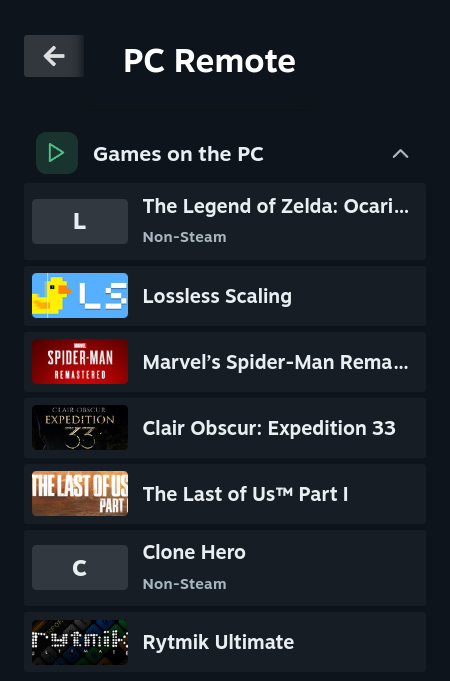
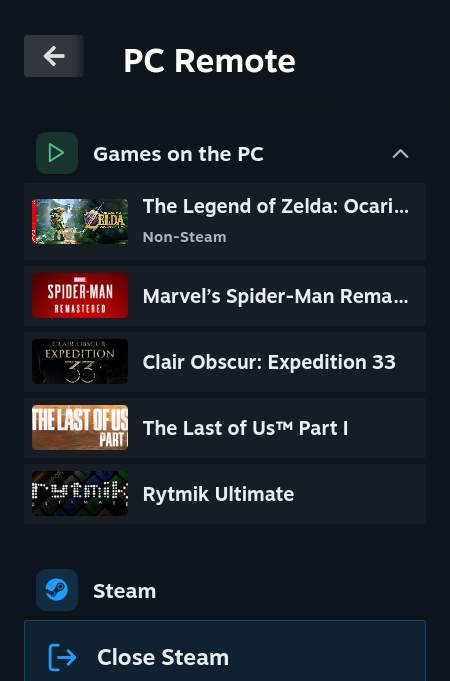
Hide games per PC from Edit, and use the Deck's own artwork for game rows
- Edit shows the selected PC's games with a switch each; hidden app ids are saved with the PC
- Games on the PC filters them out and its summary counts shown and hidden games
- Rows try the Deck's custom image (steamloopback.host/customimages), then the store capsule, then a letter

Changed region(s): [[0.0622, 0.4009, 0.9022, 0.7709], [0.0622, 0.8018, 0.6533, 0.9868], [0.0622, 0.2775, 0.3111, 0.37]]

diff --git a/src/index.tsx b/src/index.tsx
@@ -13,6 +13,7 @@ import {
   Navigation,
   SliderField,
   TextField,
+  ToggleField,
   showModal,
   staticClasses,
 } from "@decky/ui";
@@ -23,7 +24,7 @@ import { FaSteam } from "react-icons/fa";
 import { FiEdit2, FiEyeOff, FiKey, FiLogOut, FiMonitor, FiMoon, FiPlay, FiPlus, FiPower, FiRotateCw, FiSettings, FiTrash2, FiVolume2, FiVolumeX, FiWifi } from "react-icons/fi";
 import { CardState, CollapsibleSection, GameRow, Notice, PanelStyles, Section, StatusCard, TileRow, WideTile } from "./ui";
 
-type Pc = { name: string; host: string; port: number; token: string };
+type Pc = { name: string; host: string; port: number; token: string; hidden?: number[] }; // hidden: app ids left off the panel
 type Config = { pcs: Pc[]; selected: number };
 type Status = { host?: string; steam?: boolean; volume?: number; muted?: boolean; error?: string; moved_to?: string };
 
@@ -47,7 +48,8 @@ const discover = callable<[], { name: string; host: string; port: number }[]>("d
 
 // The PC form opens as a modal in the main window (like MAKO's text inputs): the on-screen
 // keyboard does not type into text fields inside the Quick Access Menu.
-function PcEditModal({ initial, onSave, closeModal }: { initial: Pc; onSave: (pc: Pc) => void; closeModal?: () => void }) {
+function PcEditModal({ initial, games, onSave, closeModal }: { initial: Pc; games?: Game[]; onSave: (pc: Pc) => void; closeModal?: () => void }) {
+  const [hidden, setHidden] = useState<number[]>(initial.hidden ?? []);
   const [name, setName] = useState(initial.name);
   const [host, setHost] = useState(initial.host);
   const [port, setPort] = useState(String(initial.port || 47990));
@@ -79,13 +81,23 @@ function PcEditModal({ initial, onSave, closeModal }: { initial: Pc; onSave: (pc
           <TextField value={token} onChange={(e) => setToken(e?.target?.value ?? "")} style={{ width: "100%" }} />
         </Field>
         {found && <Field label={found} />}
+        {games && games.length > 0 && (
+          <>
+            <Field label="Shown on the panel" description="Turn off the games and apps you don't want in Games on the PC." />
+            {games.map((g) => (
+              <ToggleField key={g.appid} label={g.name} description={g.nonSteam ? "Non-Steam" : undefined}
+                checked={!hidden.includes(g.appid)}
+                onChange={(on) => setHidden((h) => on ? h.filter((id) => id !== g.appid) : [...h, g.appid])} />
+            ))}
+          </>
+        )}
       </DialogBody>
       <DialogFooter>
         <Focusable style={{ display: "flex", gap: "8px" }} flow-children="row">
           <DialogButton onClick={search}>Search the network</DialogButton>
           <DialogButton onClick={closeModal}>Cancel</DialogButton>
           <DialogButton disabled={!valid} onClick={() => {
-            onSave({ name: name.trim() || host.trim(), host: host.trim(), port: Number(port) || 47990, token: token.trim() });
+            onSave({ name: name.trim() || host.trim(), host: host.trim(), port: Number(port) || 47990, token: token.trim(), hidden });
             closeModal?.();
           }}>Save</DialogButton>
         </Focusable>
@@ -134,9 +146,15 @@ function Content() {
     volTimer.current = window.setTimeout(async () => apply(await setVolume(v)), 200);
   };
 
-  const edit = (index: number) => {
+  const edit = async (index: number) => {
+    // The games list only exists for the PC being shown, so only its form offers to hide games.
+    let list: Game[] | undefined;
+    if (index === config.selected && index >= 0) {
+      const g = games && !games.error ? games : await getGames();
+      if (!g.error) { setGames(g); list = g.games; }
+    }
     Navigation.CloseSideMenus();
-    showModal(<PcEditModal initial={index < 0 ? EMPTY : config.pcs[index]}
+    showModal(<PcEditModal initial={index < 0 ? EMPTY : config.pcs[index]} games={list}
       onSave={async (pc) => { setConfig(await savePc(index, pc)); setStatus({}); refresh(); }} />);
   };
 
@@ -155,6 +173,9 @@ function Content() {
     );
   }
 
+  const hiddenIds = pc.hidden ?? [];
+  const shown = games && !games.error ? games.games.filter((g) => !hiddenIds.includes(g.appid)) : [];
+  const hiddenCount = games && !games.error ? games.games.length - shown.length : 0;
   const volumeText = online ? (status.muted ? "Muted" : `${status.volume}%`) : "—";
   return (
     <>
@@ -183,18 +204,20 @@ function Content() {
       </PanelSection>
 
       <CollapsibleSection id="games" title="Games on the PC" icon={FiPlay} t="ok" initiallyCollapsed onExpand={loadGames}
-        summary={games && !games.error ? `${games.games.length} installed` : undefined}>
+        summary={games && !games.error ? `${shown.length} shown${hiddenCount ? `, ${hiddenCount} hidden` : ""}` : undefined}>
         {!games && <Notice kind="info">Loading the PC's library…</Notice>}
         {games?.error && <Notice kind="error">{games.error}</Notice>}
-        {games && !games.error && games.games.length === 0 && <Notice kind="info">No installed Steam games found on this PC.</Notice>}
+        {games && !games.error && shown.length === 0 && (
+          <Notice kind="info">{hiddenCount ? "Every game is hidden: show some again in PCs → Edit." : "No installed games found on this PC."}</Notice>
+        )}
         {games && !games.error && games.games.length > 0 && online && !status.steam && (
           <>
             <Notice kind="info">Steam is closed on the PC: open it to stream these games.</Notice>
             <WideTile icon={FaSteam} label="Open Steam" t="steam" onClick={() => run("/steam/open", "Opening Steam")} />
           </>
         )}
-        {games?.games.map((g) => (
-          <GameRow key={g.appid} appid={g.appid} name={g.name} nonSteam={g.nonSteam} playing={g.appid === games.running}
+        {shown.map((g) => (
+          <GameRow key={g.appid} appid={g.appid} name={g.name} nonSteam={g.nonSteam} playing={g.appid === games!.running}
             onClick={() => g.nonSteam && !status.steam
               // The Deck only knows the PC's non-Steam games while Steam runs there.
               ? toaster.toast({ title: "PC Remote", body: "Open Steam on the PC first: non-Steam games show up on the Deck only while it runs." })

diff --git a/src/ui.tsx b/src/ui.tsx
@@ -189,13 +189,19 @@ export function CollapsibleSection({ id, title, icon, t, summary, initiallyColla
 
 /** One installed game: its library capsule, its name, and a "Playing" badge while it runs. */
 export function GameRow({ appid, name, playing, nonSteam, onClick }: { appid: number; name: string; playing: boolean; nonSteam?: boolean; onClick: () => void }) {
-  // Non-Steam shortcuts have no store capsule: a lettered tile stands in.
-  const [img, setImg] = useState(!nonSteam);
+  // Artwork in order: the banner set on this Deck (Steam serves it as a custom image), the store
+  // capsule (Steam games only), then a lettered tile.
+  const sources = [
+    `https://steamloopback.host/customimages/${appid}.png`,
+    ...(nonSteam ? [] : [`https://cdn.cloudflare.steamstatic.com/steam/apps/${appid}/capsule_184x69.jpg`]),
+  ];
+  const [src, setSrc] = useState(0);
+  const img = src < sources.length;
   return (
     <PanelSectionRow>
       <DialogButton className="pcr-game" onClick={onClick}>
         {img
-          ? <img src={`https://cdn.cloudflare.steamstatic.com/steam/apps/${appid}/capsule_184x69.jpg`} alt="" onError={() => setImg(false)} />
+          ? <img src={sources[src]} alt="" onError={() => setSrc((i) => i + 1)} />
           : <span style={{ width: 64, height: 30, flex: "0 0 64px", borderRadius: 3, display: "grid", placeItems: "center",
               background: alpha(tone.neutral, 0.22), color: ink, fontWeight: 800, fontSize: 15 }}>{name.trim().replace(/^(the|a|an)\s+/i, "").charAt(0).toUpperCase()}</span>}
         <span style={{ flex: 1, minWidth: 0, display: "flex", flexDirection: "column", gap: 1 }}>

diff --git a/README.md b/README.md
@@ -5,7 +5,7 @@ you stream from the PC with Steam Link / Remote Play and want to open Steam, set
 turn the screen off or put the PC to sleep without walking to the desk.
 
 <p>
-  <img src="docs/screenshots/games-on-the-pc.png" width="300" alt="Games on the PC expanded: Steam games with their capsules and non-Steam shortcuts with a lettered tile and a Non-Steam label">
+  <img src="docs/screenshots/games-on-the-pc.png" width="300" alt="Games on the PC expanded: Steam games with their capsules and a non-Steam game with the artwork set on the Deck and a Non-Steam label">
   <img src="docs/screenshots/status-and-steam.png" width="300" alt="PC Remote: status card with the PC online, its address, Steam and volume, then the Steam section with Open Steam">
   <img src="docs/screenshots/volume-screen-power.png" width="300" alt="Volume slider and Unmute, Turn off the screen, and the Power row with Sleep, Restart and Shut down">
   <img src="docs/screenshots/power-and-pcs.png" width="300" alt="Power row with Sleep focused, and the PCs section with Edit, Add and Remove">
@@ -21,12 +21,16 @@ turn the screen off or put the PC to sleep without walking to the desk.
 | **Volume** | A slider for the PC's speakers and a Mute / Unmute button |
 | **Screen** | Turn the PC's screen off (moving the mouse or a key wakes it) |
 | **Power** | Sleep, Restart, Shut down, each asking to confirm first |
-| **PCs** | Edit, add or remove PCs, and switch between them when you have more than one |
+| **PCs** | Edit, add or remove PCs, switch between them when you have more than one, and choose which games each PC shows |
 
 - Only the games list collapses (its header shows how many games are installed); the Deck
   remembers whether you keep it open.
 - The games list is read from the PC's Steam library files, so it works with Steam closed;
   when Steam is closed the list offers to open it, since streaming needs it running.
+- **PCs → Edit** lists the PC's games with a switch each: turn one off to hide it from the
+  panel (saved per PC on the Deck).
+- Rows use the artwork you set on the Deck for that game when there is one (Steam serves it as
+  a custom image), then the store capsule, then a lettered tile.
 - Non-Steam games come from the PC's `shortcuts.vdf`; the Deck knows them (same app id) only
   while Steam runs on the PC, so they open once Steam is up there.
 - On a game the Deck could also install, Steam's main button reads **Install**: the arrow next
